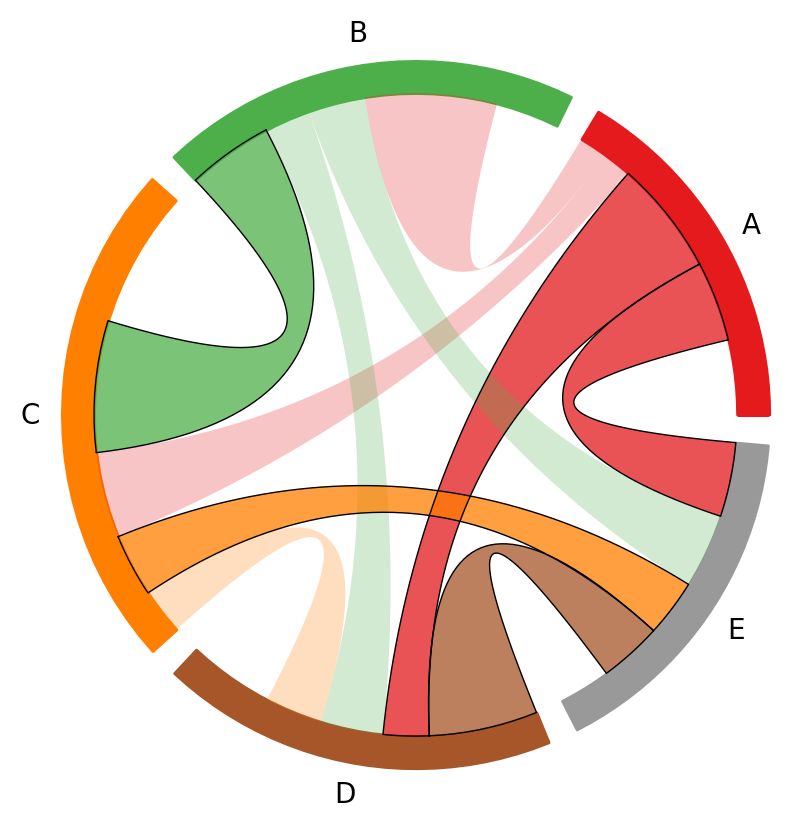
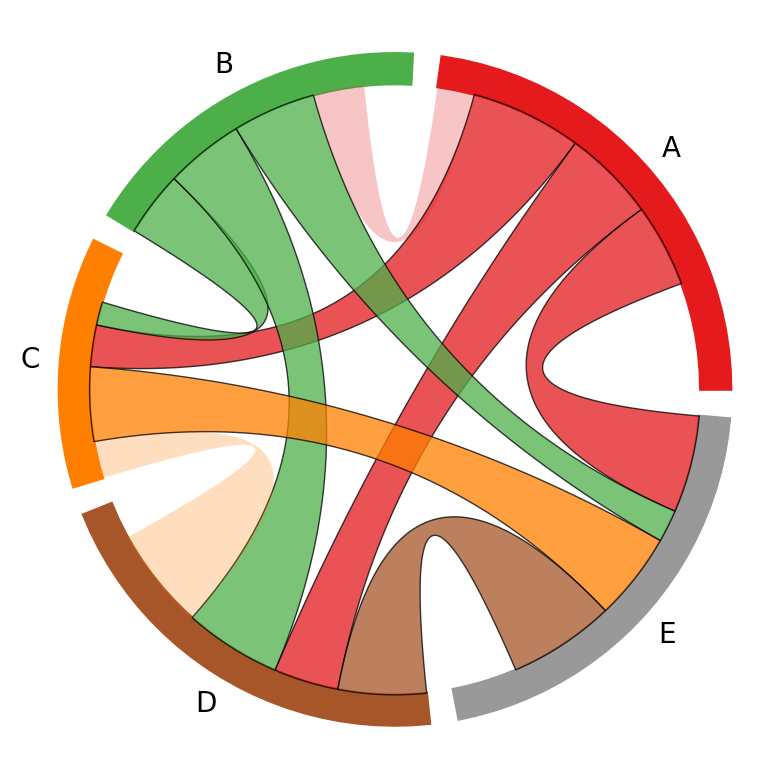
Plot in Cartesian coords instead of polar

diff --git a/roundabout/_core.py b/roundabout/_core.py
@@ -41,18 +41,40 @@ def polar_bezier_curve(theta1, theta2, r=1):
     return r, theta
 
 
-def constuct_chord(p1, p2, p3, p4):
-    """Connect 4 points on a unit circle to draw a polygon."""
+def plot_arc_segment(arc, color, r1=1.0, r2=1.1, ax=None):
+    """Plot an arc segment in cartesian coordinates."""
+    ax = plt.gca() if ax is None else ax
 
+    # Determine the inner and outer ring segments
+    theta = np.linspace(arc.min(), arc.max(), 25)
+    x1, y1 = polar_to_cartesian(r1, theta)
+    x2, y2 = polar_to_cartesian(r2, theta)
+
+    # Combine into a single outline
+    x = np.concatenate([x1, x2[::-1], x1[[0]]])
+    y = np.concatenate([y1, y2[::-1], y1[[0]]])
+
+    # Plot on cartesian axes
+    ax.fill(x, y, color=color)
+
+
+def plot_chord(p1, p2, p3, p4, ax=None, **kwargs):
+    """Connect 4 points on a unit circle to draw a polygon."""
+    ax = plt.gca() if ax is None else ax
+
+    # Calculate the 4 outlines of the chord in polar coords
     r1, theta1 = polar_bezier_curve(p1, p2)
     r2, theta2 = np.ones(10), np.linspace(p2, p3, 10)
     r3, theta3 = polar_bezier_curve(p3, p4)
     r4, theta4 = np.ones(10), np.linspace(p4, p1, 10)
 
+    # Combine into a single outline
     r = np.concatenate([r1, r2, r3, r4])
     theta = np.concatenate([theta1, theta2, theta3, theta4])
 
-    return r, theta
+    # Plot on cartesian axes
+    x, y = polar_to_cartesian(r, theta)
+    (polygon,) = ax.fill(x, y, **kwargs)
 
 
 def sort(matrix, strategy="original"):
@@ -124,29 +146,25 @@ def draw_chord_diagram(
     segments = calculate_segments(sorted_matrix, spacing=spacing, padding=padding)
 
     # Plot arcs
-    ax = plt.subplot(111, projection="polar")
+    ax = plt.subplot(111, aspect="equal")
     ax.set_axis_off()
     for arc, color in zip(segments, colors):
-        r = np.linspace(arc.min(), arc.max(), 25)
-        ax.fill_between(r, 1, 1.1, color=color)
+        plot_arc_segment(arc, color, ax=ax)
 
     # Plot chords
     for i, j in combinations(range(n), 2):
 
         p1, p4 = segments[i, unsort[i, j]]
-        # p1, p4 = segments[i, j] if unsort is applied to segments instead
         p3, p2 = segments[j, unsort[j, i]]
-        # p3, p2 = segments[j, i] if unsort is applied to segments instead
-        r, theta = constuct_chord(p1, p2, p3, p4)
 
         width = matrix[i, j]
         if threshold and width > threshold:
-            ax.fill(theta, r, color=colors[i], alpha=0.75, lw=0)
-            ax.plot(theta, r, color="k", lw=0.5)
+            plot_chord(p1, p2, p3, p4, ax, color=colors[i], alpha=0.75, lw=0.5, ec="k")
         else:
-            ax.fill(theta, r, color=colors[i], alpha=0.25, lw=0)
+            plot_chord(p1, p2, p3, p4, ax, color=colors[i], alpha=0.25, lw=0)
 
     # Add labels
     for segment, label in zip(segments, labels):
         midpoint = (segment.min() + segment.max()) / 2
-        ax.text(midpoint, 1.2, label, ha="center", va="center")
+        x, y = polar_to_cartesian(1.2, midpoint)
+        ax.text(x, y, label, ha="center", va="center")
